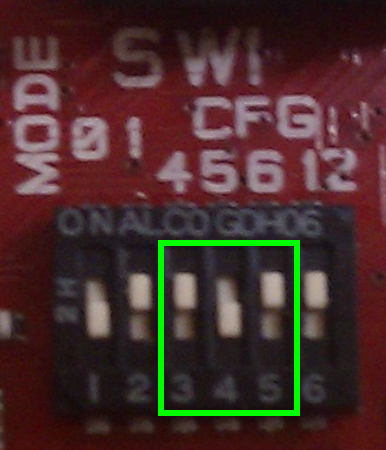
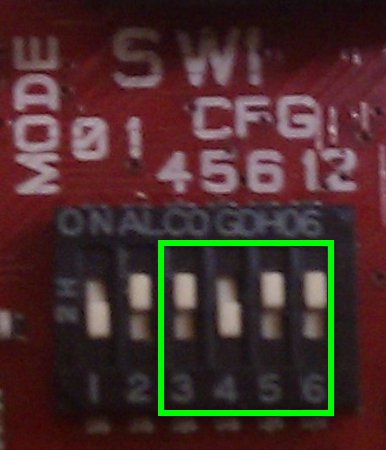
fixed boot dip switch

Changed region(s): [[0.4041, 0.5289, 0.8705, 0.9333]]

diff --git a/source/boot.rst b/source/boot.rst
@@ -114,25 +114,18 @@ If an error occurs, the boot ROM jumps to serial downloader boot mode.
 On @board@, **SW1** switches 3, 4, 5, 6 (along with a set of jumpers available on the bottom side of the board) can define
 a custom boot mode so you can simulate your configuration before blowing fuses.
 
-=========================  ===============
-SW1[6:3] = BOOT_CFG1[6:4]  Boot Device
-=========================  ===============
-1100                       SD regular boot
-1101                       SD fast boot
-0011                       Serial NOR
-0010                       SATA
-=========================  ===============
+======================================  ===============
+SW1[6:3] = BOOT_CFG[24]-BOOT_CFG1[6:4]  Boot Device
+======================================  ===============
+1100                                    SD regular boot
+1101                                    SD fast boot
+0011                                    Serial NOR
+0010                                    SATA
+======================================  ===============
 
 For example, this is the selection of the boot from SD card (fast boot)
 
 .. image:: _static/boot_switches_device_selection.jpg
-    :align: center
-
-**SW1[6] switch goes right to BOOT_CFG2[4]**. The SD card socket on @board@ is connected to processor's USDHC3, this means
-that, if you want to boot from SD card, **BOOT_CFG2[4:3]** should then be set to *10* (USDHC3), therefore you need to set
-**SW1[6] = 1** and **R162 must not be mounted**.
-
-.. image:: _static/boot_switches_usdhc3.jpg
     :align: center
 
 .. _bootloader_deploy_label:
